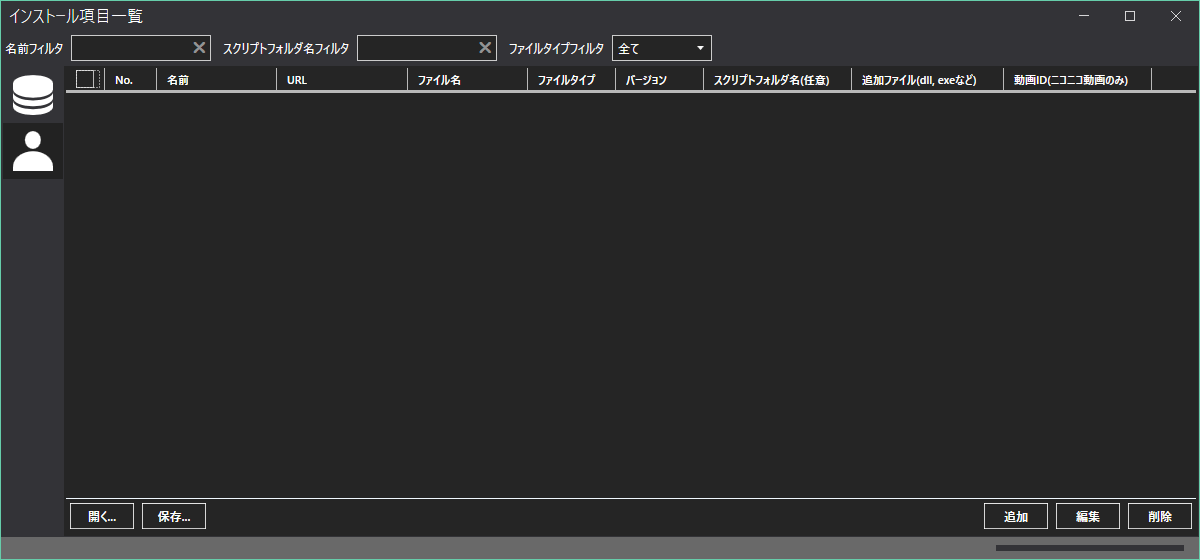
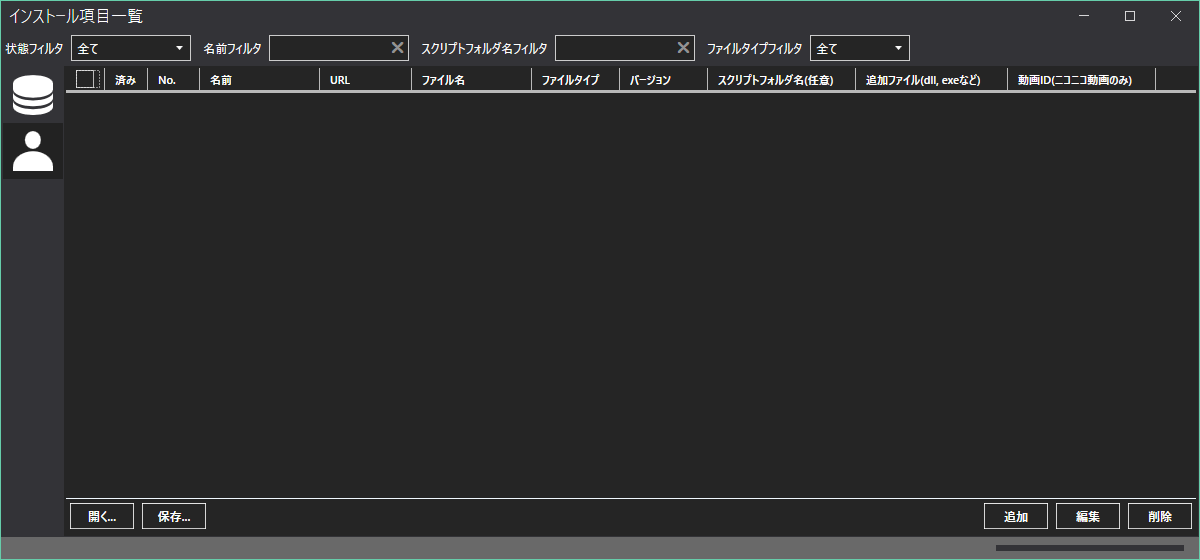
Update: docs

diff --git a/docs/htmls/how_to_use.html b/docs/htmls/how_to_use.html
@@ -54,7 +54,7 @@
 
     <h2 id="InstallItem_Edit">インストール項目の編集</h2>
     <p>ウィンドウ表示時は以下のような画面になります。</p>
-    <a href="../images/installlist1.png"><img class="install_list_img" src="../images/installlist1.png"></a>
+    <a href="../images/installlist1-1.png"><img class="install_list_img" src="../images/installlist1-1.png"></a>
     <p>左側にある2つのアイコンは次の意味になります。</p>
     <div class="icon_layout">
       <img src="../images/prerepo_icon.png">
@@ -64,6 +64,8 @@
       <img src="../images/userrepo_icon.png">
       <p style="margin-left:20px">ユーザーが編集できるインストール項目です。(以降、ユーザーリポジトリと呼びます)</p>
     </div>
+    <p>また、項目をインストール後は、"済み"の箇所が以下のようになります。</p>
+    <a href="../images/installlist1-2.png"><img class="install_list_img" src="../images/installlist1-2.png"></a>
     <ol>
 
       <h3 id="ExistingItem"><li>既存のものから選択</li></h3>
@@ -160,14 +162,29 @@
       <h3 id="SingleInstall"><li>インストール</li></h3>
       <ol>
         <li>インストールしたい項目を右クリックする</li>
-        <li>インストールを選択してクリックする</li>
+        <li>"インストール"を選択してクリックする</li>
       </ol>
 
       <h3 id="SingleUninstall"><li>アンインストール</li></h3>
       <ol>
         <li>アンインストールしたい項目を右クリックする</li>
-        <li>アンインストールを選択してクリックする</li>
+        <li>"アンインストール"を選択してクリックする</li>
       </ol>
+
+      <h3 id="BatchInstall"><li>まとめてインストール</li></h3>
+      <p>AviUtlと拡張編集は除外されます。</p>
+      <ol>
+        <li>インストールしたい項目にチェックを入れる</li>
+        <li>どこでも良いので、項目上で右クリックする</li>
+        <li>"チェックしたものを一括インストール"をクリックする</li>
+      </ol>
+
+      <h3 id="BatchUninstall"><li>まとめてアンインストール</li></h3>
+      <p>AviUtlと拡張編集は除外されます。</p>
+      <ol>
+        <li>アンインストールしたい項目にチェックを入れる</li>
+        <li>どこでも良いので、項目上で右クリックする</li>
+        <li>"チェックしたものを一括アンインストール"をクリックする</li>
     </ol>
 
     <h2 id="ItemProperty">項目のプロパティ</h2>

diff --git a/docs/htmls/contents.html b/docs/htmls/contents.html
@@ -29,6 +29,8 @@
         <ul class="contents_title_child">
           <ul class="contents_title_child"><a href="how_to_use.html#SingleInstall" target="sc">インストール</a></ul>
           <ul class="contents_title_child"><a href="how_to_use.html#SingleUninstall" target="sc">アンインストール</a></ul>
+          <ul class="contents_title_child"><a href="how_to_use.html#BatchInstall" target="sc">まとめてインストール</a></ul>
+          <ul class="contents_title_child"><a href="how_to_use.html#BatchUninstall" target="sc">まとめてアンインストール</a></ul>
         </ul>
         <ul class="contents_title_child"><a href="how_to_use.html#ItemProperty" target="sc">項目のプロパティ</a></ul>
     </ul>
